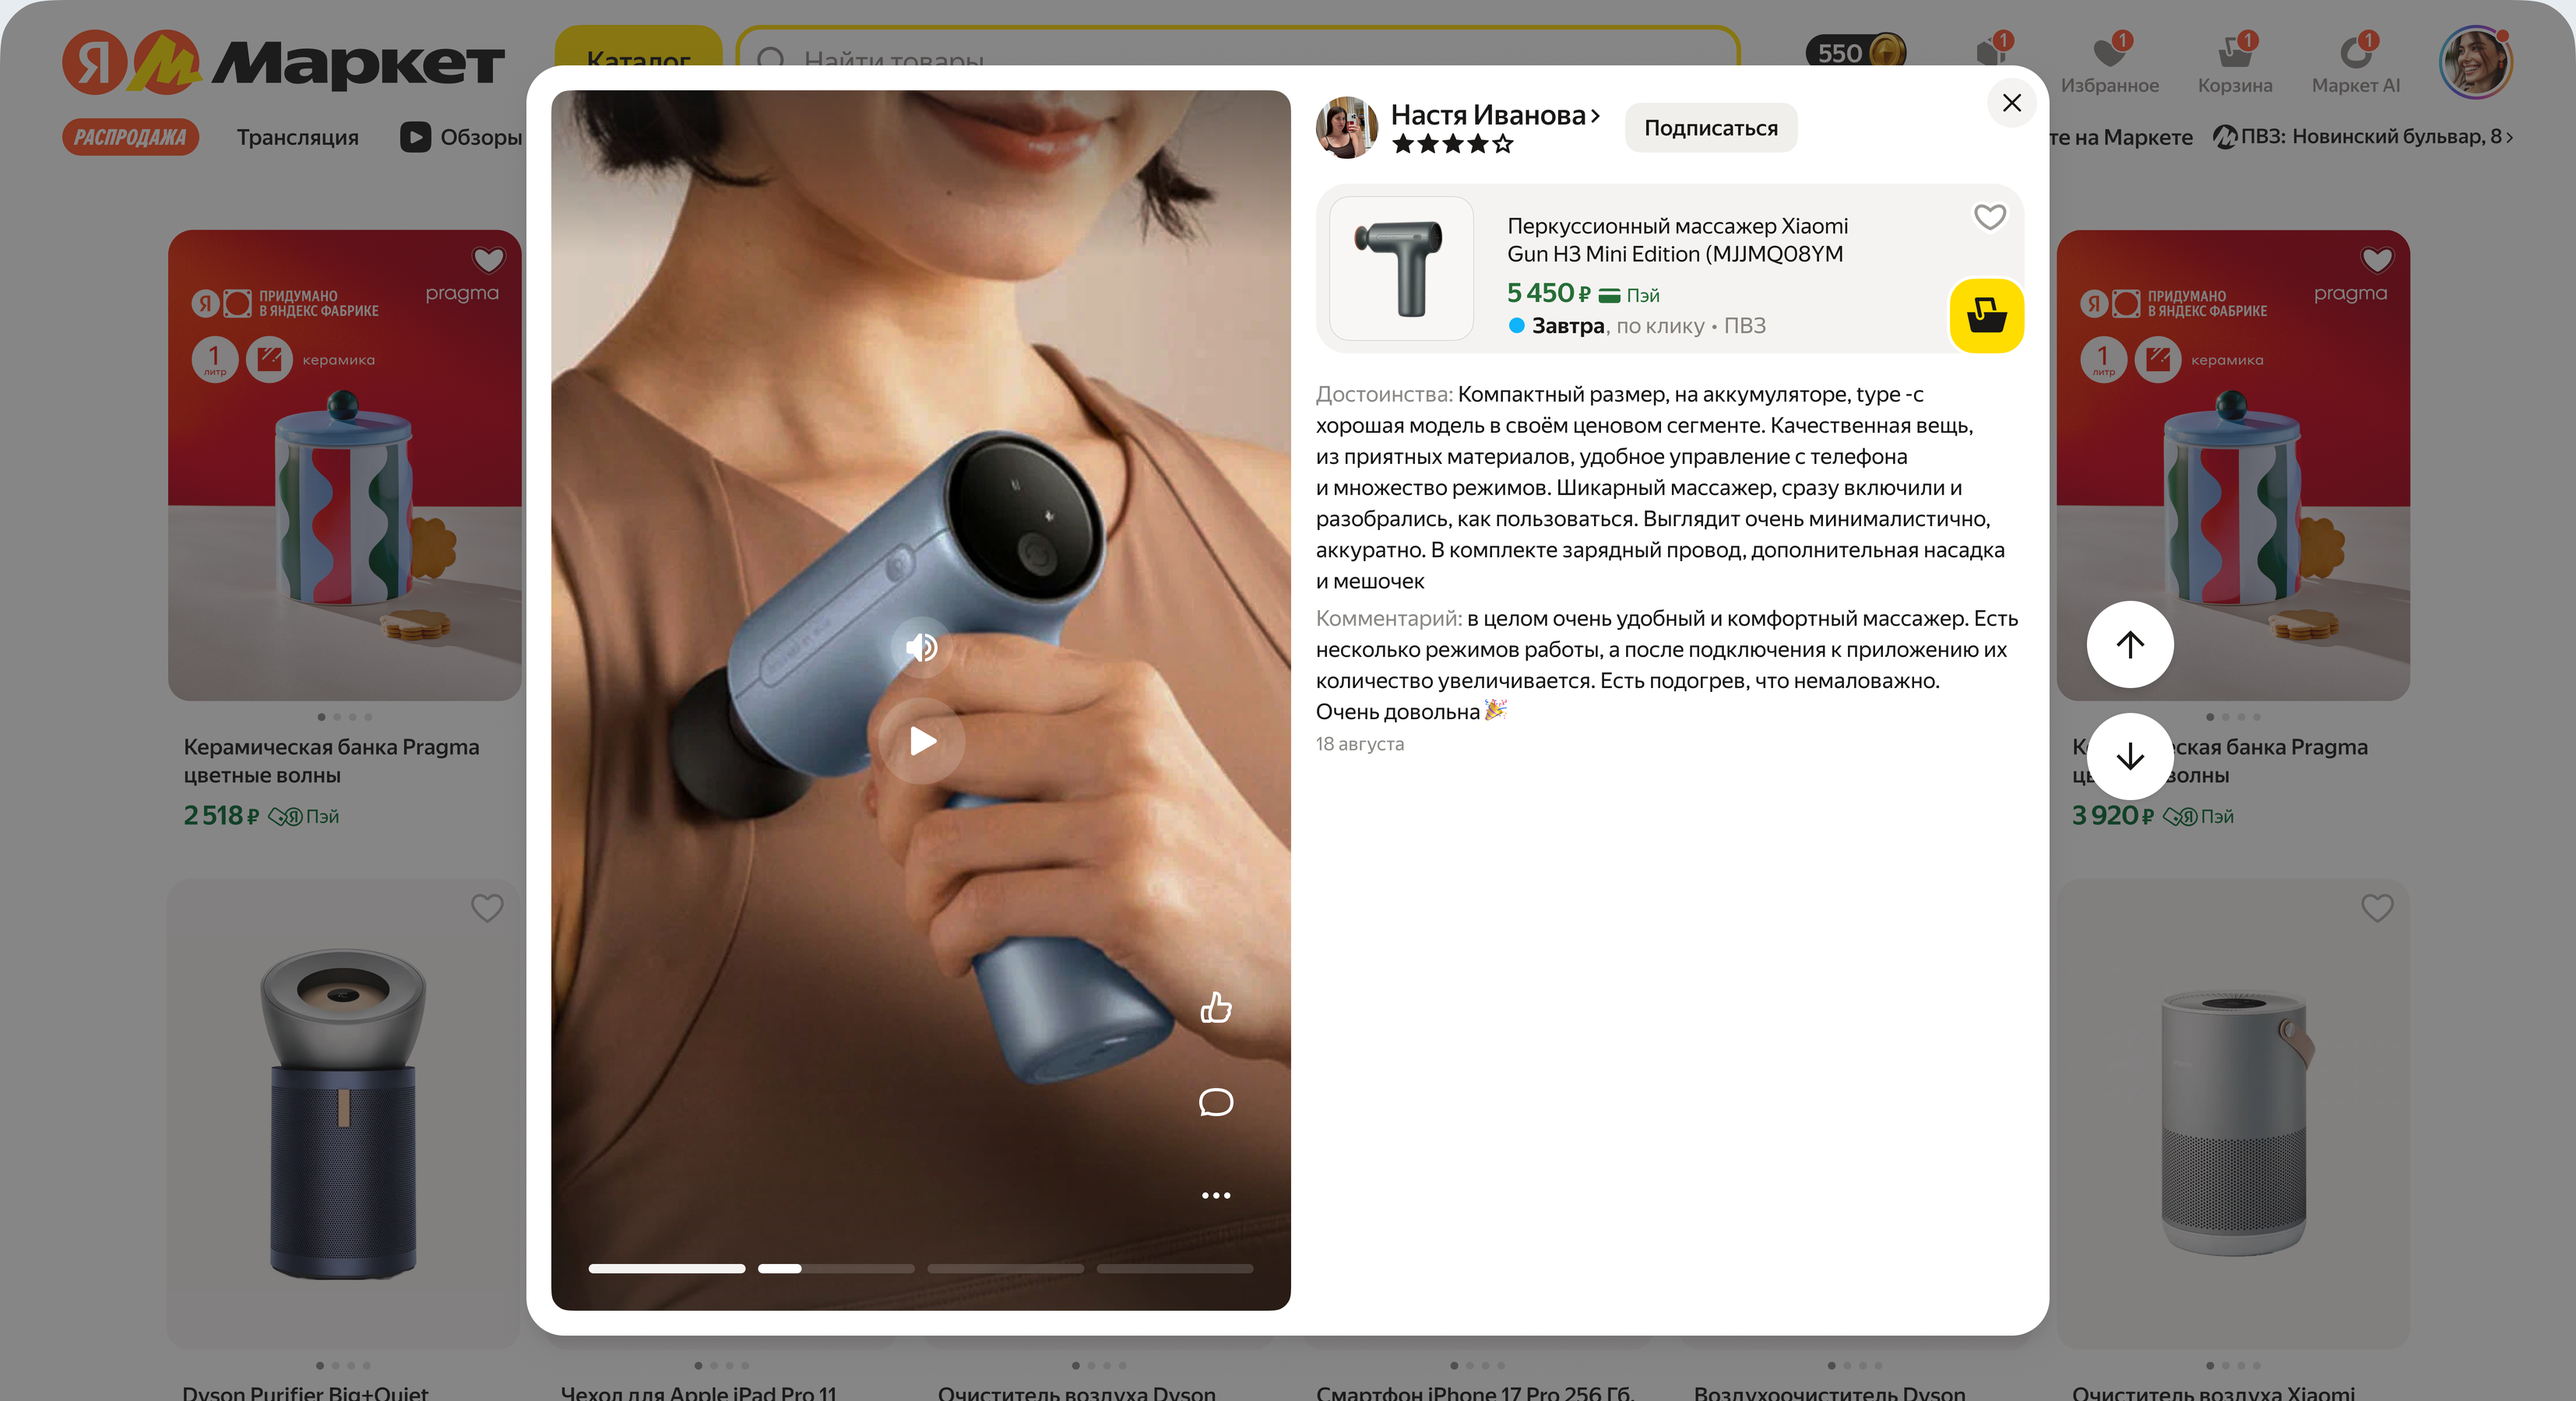
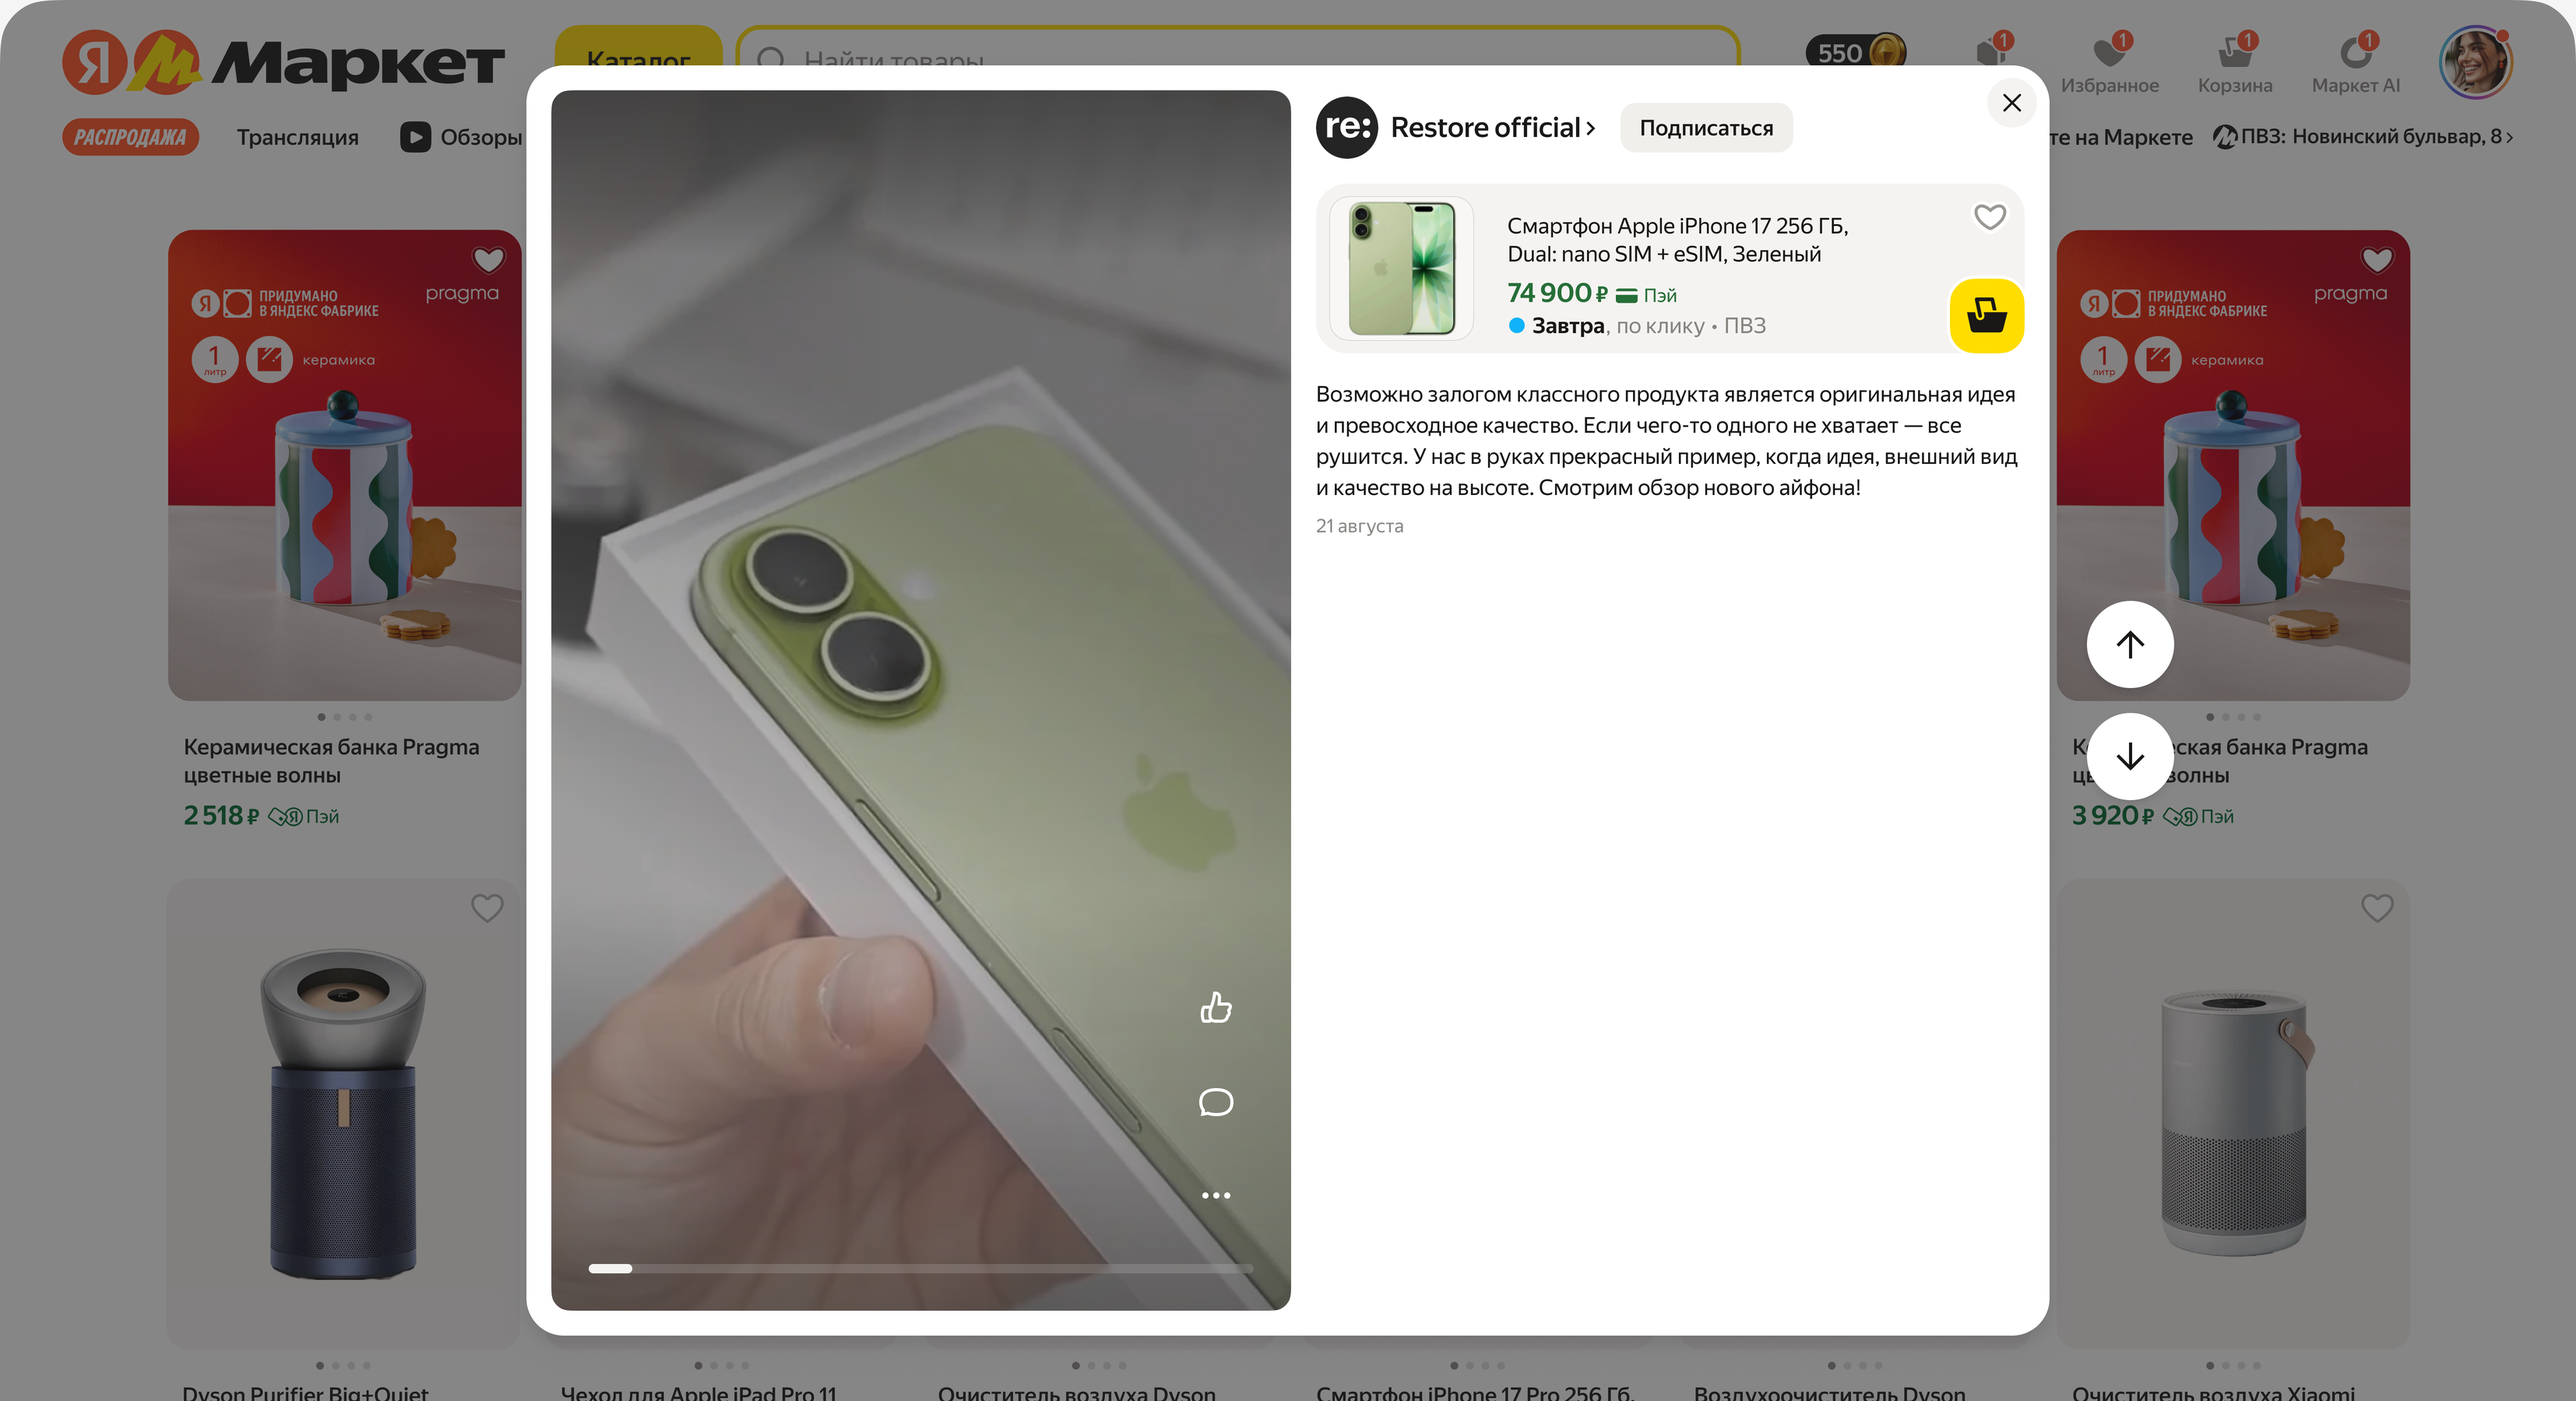
Refresh both shorts frames from Figma and drop the skeleton.

Changed region(s): [[0.1868, 0.0622, 0.7784, 0.9333], [0.6539, 0.0622, 0.685, 0.0933]]

diff --git a/styles.css b/styles.css
@@ -111,150 +111,6 @@ body {
   user-select: none;
 }
 
-.right-skeletons {
-  position: absolute;
-  left: calc(100% * 845 / 1654);
-  top: calc(100% * 58 / 900);
-  width: calc(100% * 455 / 1654);
-  height: calc(100% * 427 / 900);
-  background: #fff;
-  overflow: hidden;
-  pointer-events: none;
-  opacity: 0;
-  visibility: hidden;
-  clip-path: polygon(0 0, calc(100% - 28px) 0, calc(100% - 28px) 28px, 100% 28px, 100% 100%, 0 100%);
-  z-index: 3;
-}
-
-.right-skeletons.is-switching {
-  visibility: visible;
-  animation: sk-blink 520ms ease-in-out;
-}
-
-@keyframes sk-blink {
-  0% {
-    opacity: 0;
-  }
-  35% {
-    opacity: 1;
-  }
-  100% {
-    opacity: 0;
-  }
-}
-
-.sk-slide {
-  position: absolute;
-  inset: 0;
-  display: flex;
-  flex-direction: column;
-  gap: 16px;
-  background: #fff;
-}
-
-.sk-header {
-  display: flex;
-  align-items: center;
-  gap: 12px;
-  height: 48px;
-}
-
-.sk-avatar {
-  width: 36px;
-  height: 36px;
-  border-radius: 999px;
-  background: #ebe8e6;
-  flex: 0 0 auto;
-}
-
-.sk-meta {
-  flex: 1;
-  min-width: 0;
-  display: flex;
-  flex-direction: column;
-  gap: 8px;
-}
-
-.sk-chip {
-  width: 88px;
-  height: 24px;
-  border-radius: 8px;
-  background: #ebe8e6;
-  flex: 0 0 auto;
-}
-
-.sk-text {
-  display: flex;
-  flex-direction: column;
-  gap: 8px;
-}
-
-.sk-line {
-  display: block;
-  height: 12px;
-  border-radius: 6px;
-  background: #ebe8e6;
-}
-
-.sk-line.w-94 { width: 94%; }
-.sk-line.w-92 { width: 92%; }
-.sk-line.w-90 { width: 90%; }
-.sk-line.w-88 { width: 88%; }
-.sk-line.w-86 { width: 86%; }
-.sk-line.w-84 { width: 84%; }
-.sk-line.w-82 { width: 82%; }
-.sk-line.w-80 { width: 80%; }
-.sk-line.w-78 { width: 78%; }
-.sk-line.w-76 { width: 76%; }
-.sk-line.w-74 { width: 74%; }
-.sk-line.w-72 { width: 72%; }
-.sk-line.w-70 { width: 70%; }
-.sk-line.w-68 { width: 68%; }
-.sk-line.w-64 { width: 64%; }
-.sk-line.w-62 { width: 62%; }
-.sk-line.w-60 { width: 60%; }
-.sk-line.w-58 { width: 58%; }
-.sk-line.w-56 { width: 56%; }
-.sk-line.w-52 { width: 52%; }
-.sk-line.w-50 { width: 50%; }
-.sk-line.w-48 { width: 48%; }
-.sk-line.w-44 { width: 44%; }
-.sk-line.w-42 { width: 42%; }
-.sk-line.w-40 { width: 40%; }
-.sk-line.w-36 { width: 36%; }
-.sk-line.w-34 { width: 34%; }
-.sk-line.w-32 { width: 32%; }
-.sk-line.w-30 { width: 30%; }
-.sk-line.w-28 { width: 28%; }
-.sk-line.w-24 { width: 24%; }
-.sk-line.w-20 { width: 20%; }
-
-.sk-snippet {
-  display: flex;
-  gap: 12px;
-  align-items: flex-start;
-  background: #f5f3f1;
-  border-radius: 20px;
-  padding: 8px;
-}
-
-.sk-thumb {
-  flex: 0 0 auto;
-  width: 93px;
-  height: 93px;
-  border-radius: 13px;
-  background: #e4e1de;
-}
-
-.sk-offer {
-  flex: 1;
-  min-width: 0;
-  display: flex;
-  flex-direction: column;
-  gap: 8px;
-  padding: 10px 44px 4px 10px;
-}
-
 .hotspot {
   position: absolute;
   width: calc(100% * 56 / 1654);
@@ -278,9 +134,5 @@ body {
 @media (prefers-reduced-motion: reduce) {
   .track.is-animating {
     transition: none;
-  }
-
-  .right-skeletons.is-switching {
-    animation: none;
   }
 }

diff --git a/app.js b/app.js
@@ -1,13 +1,11 @@
 (() => {
   const TOTAL = 2;
   const SLIDE_MS = 520;
-  const SWAP_MS = 180;
   const START_INDEX = 0;
   const REDUCED = window.matchMedia("(prefers-reduced-motion: reduce)").matches;
 
   const view = document.getElementById("view");
   const track = document.getElementById("track");
-  const skeletons = document.getElementById("skeletons");
   const pageB = document.getElementById("page-b");
 
   function withClones(root) {
@@ -23,8 +21,6 @@
   let dragY = 0;
   let dragging = false;
   let startY = 0;
-  let blinkTimer = 0;
-  let swapTimer = 0;
   let moveTimer = 0;
 
   function viewScale() {
@@ -44,17 +40,6 @@
   function setTrack(offset = 0, animate = false) {
     track.classList.toggle("is-animating", animate && !REDUCED);
     track.style.transform = `translate3d(0, calc(${-pos * 100}% + ${offset}px), 0)`;
-  }
-
-  function blinkSkeleton() {
-    window.clearTimeout(blinkTimer);
-    if (REDUCED) return;
-    skeletons.classList.remove("is-switching");
-    void skeletons.offsetWidth;
-    skeletons.classList.add("is-switching");
-    blinkTimer = window.setTimeout(() => {
-      skeletons.classList.remove("is-switching");
-    }, SLIDE_MS);
   }
 
   function layoutSlides() {
@@ -84,12 +69,8 @@
     busy = true;
     pos += dir;
     setTrack(0, true);
-    blinkSkeleton();
-    window.clearTimeout(swapTimer);
+    showProduct(productIndex());
     window.clearTimeout(moveTimer);
-    swapTimer = window.setTimeout(() => {
-      showProduct(productIndex());
-    }, REDUCED ? 0 : SWAP_MS);
     moveTimer = window.setTimeout(finishMove, REDUCED ? 0 : SLIDE_MS);
     return true;
   }

diff --git a/index.html b/index.html
@@ -28,35 +28,6 @@
           </div>
         </div>
 
-        <div class="right-skeletons" id="skeletons" aria-hidden="true">
-          <article class="sk-slide">
-            <div class="sk-header">
-              <span class="sk-avatar"></span>
-              <div class="sk-meta">
-                <span class="sk-line w-56"></span>
-                <span class="sk-line w-40"></span>
-              </div>
-              <span class="sk-chip"></span>
-            </div>
-            <div class="sk-text">
-              <span class="sk-line w-92"></span>
-              <span class="sk-line w-88"></span>
-              <span class="sk-line w-76"></span>
-              <span class="sk-line w-64"></span>
-              <span class="sk-line w-24"></span>
-            </div>
-            <div class="sk-snippet">
-              <span class="sk-thumb"></span>
-              <div class="sk-offer">
-                <span class="sk-line w-90"></span>
-                <span class="sk-line w-72"></span>
-                <span class="sk-line w-40"></span>
-                <span class="sk-line w-56"></span>
-              </div>
-            </div>
-          </article>
-        </div>
-
         <button class="hotspot hotspot-up" id="prev" type="button" aria-label="Предыдущее видео"></button>
         <button class="hotspot hotspot-down" id="next" type="button" aria-label="Следующее видео"></button>
       </div>

diff --git a/README.md b/README.md
@@ -1,6 +1,6 @@
 # Яндекс Маркет — шортсы / сторис на десктопе
 
-Прототип перелистывания видео в блоке `view` и мигания скелетона справа при смене кадра.
+Прототип перелистывания видео в блоке `view`: справа сразу показывается карточка товара, без скелетона.
 
 ## Публичная ссылка
 
